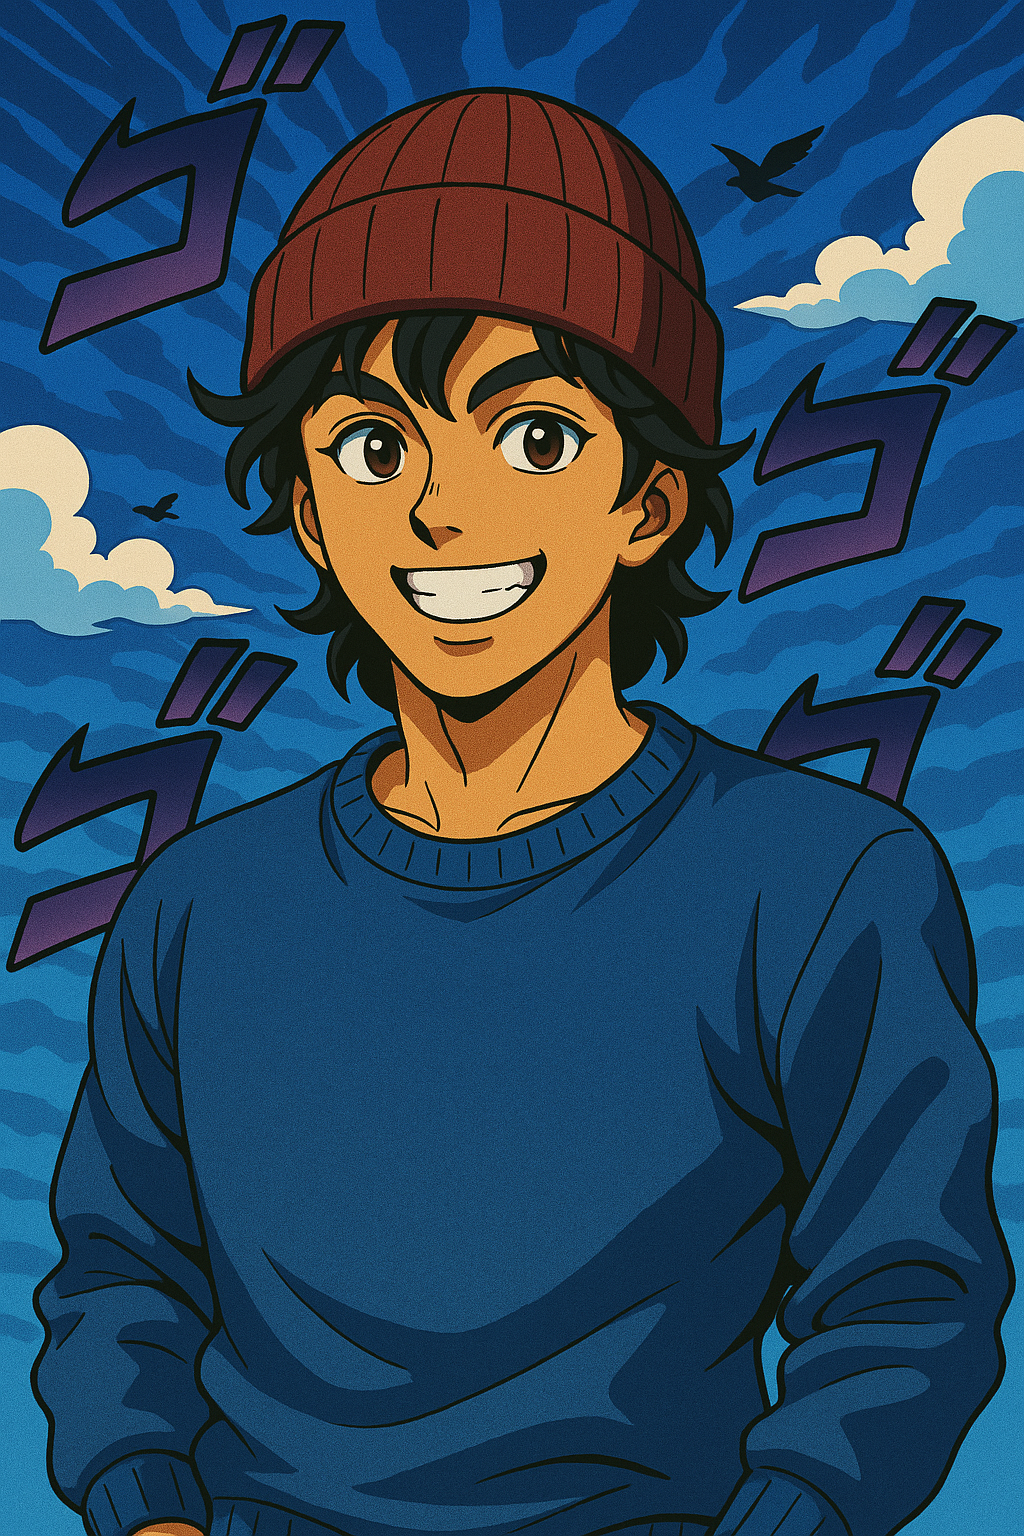
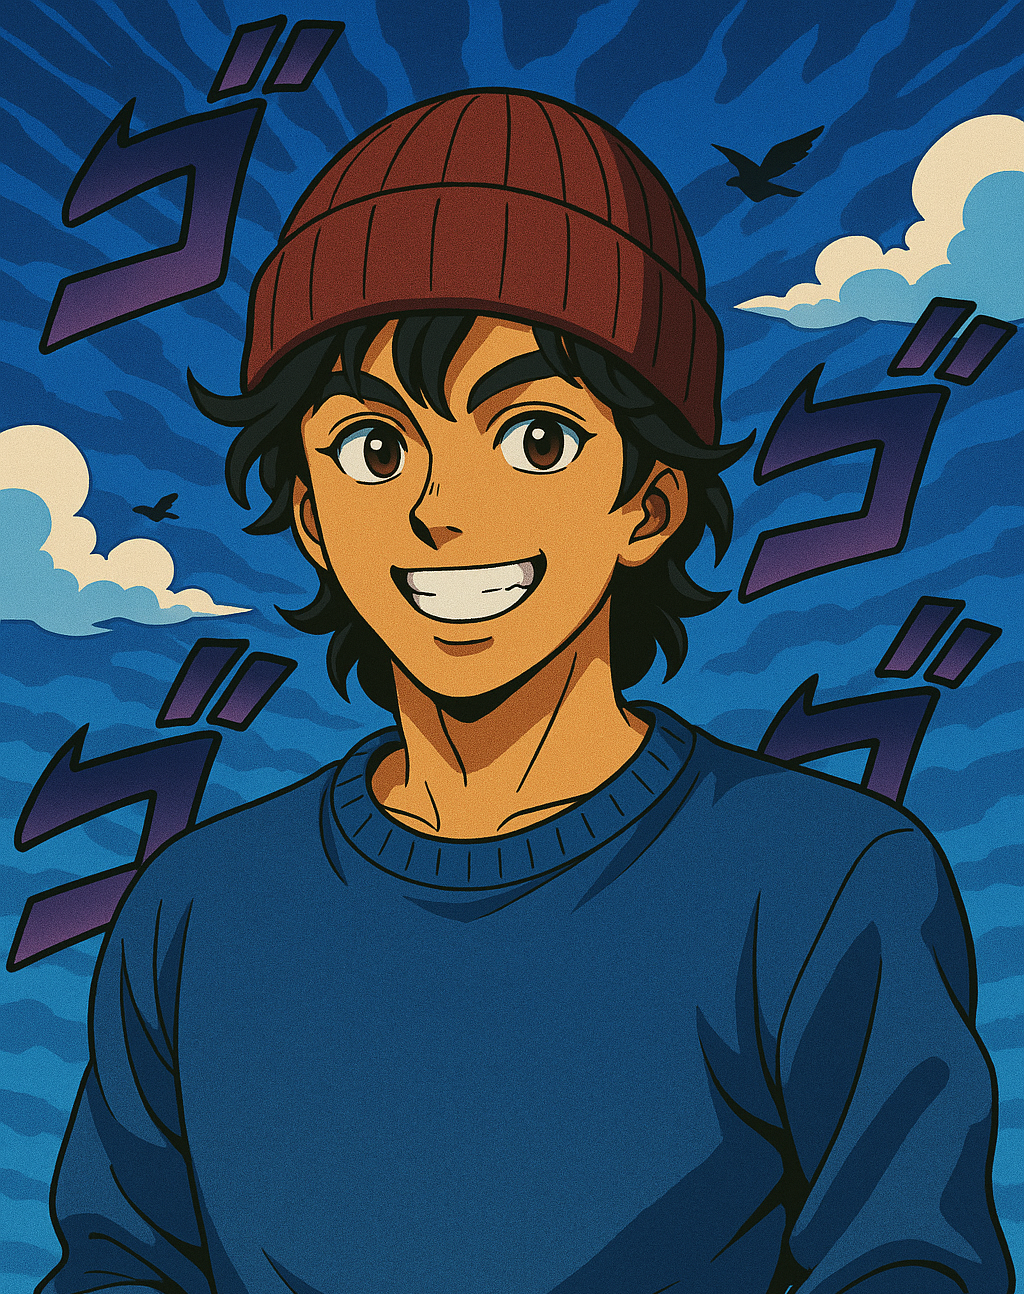
minor tweak on image ratio and border padding.

diff --git a/src/components/home/Hero.tsx b/src/components/home/Hero.tsx
@@ -10,11 +10,11 @@ const Hero: React.FC = () => {
   };
 
   return (
-    <section className="relative pt-16 pb-24">
+    <section className="relative py-12">
       {/* Background Gradient */}
       <div className="absolute inset-0 bg-gradient-to-br from-primary-50/50 to-white dark:from-primary-950/30 dark:to-dark -z-10"></div>
       
-      <div className="container-custom grid grid-cols-1 lg:grid-cols-2 gap-12 items-center pt-16 pb-8">
+      <div className="container-custom grid grid-cols-1 lg:grid-cols-2 gap-12 items-center">
         {/* Text Content */}
         <motion.div
           initial={{ opacity: 0, y: 20 }}
@@ -65,7 +65,7 @@ const Hero: React.FC = () => {
           className="order-1 lg:order-2"
         >
           <div className="relative">
-            <div className="w-[80%] h-[650px] mx-auto relative rounded-lg overflow-hidden shadow-2xl group cursor-pointer">
+            <div className="w-[90%] h-[500px] mx-auto relative rounded-lg overflow-hidden shadow-2xl group cursor-pointer">
               {/* Animated Image (Default) */}
               <img 
                 src="/images/jojo.png" 

diff --git a/src/components/home/Bio.tsx b/src/components/home/Bio.tsx
@@ -3,7 +3,7 @@ import { motion } from 'framer-motion';
 
 const Bio: React.FC = () => {
   return (
-    <section className="pt-8 pb-16 bg-white dark:bg-slate-900" id="about">
+    <section className="py-12 bg-white dark:bg-slate-900" id="about">
       <div className="container-custom">
         <motion.div
           initial={{ opacity: 0, y: 20 }}
@@ -11,7 +11,7 @@ const Bio: React.FC = () => {
           viewport={{ once: true, margin: "-100px" }}
           transition={{ duration: 0.7 }}
         >
-          <h2 className="text-center mb-16">About Me</h2>
+          <h2 className="text-center mb-12">About Me</h2>
           
           <div className="grid grid-cols-1 md:grid-cols-2 gap-12 items-center">
             {/* Bio Image */}

diff --git a/src/components/home/ChatInterface.tsx b/src/components/home/ChatInterface.tsx
@@ -50,11 +50,11 @@ const ChatInterface: React.FC = () => {
   };
 
   return (
-    <section className="relative pt-8 pb-16">
+    <section className="relative pt-20 pb-12">
       {/* Subtle Background */}
       <div className="absolute inset-0 bg-gradient-to-b from-slate-50/50 to-white dark:from-slate-900/50 dark:to-dark -z-10"></div>
       
-      <div className="container-custom pt-8 pb-4">
+      <div className="container-custom">
         <div className="max-w-3xl mx-auto">
           <AnimatePresence mode="wait">
             {!hasStarted ? (

diff --git a/src/components/home/FeaturedPhotos.tsx b/src/components/home/FeaturedPhotos.tsx
@@ -13,9 +13,9 @@ const FeaturedPhotos: React.FC = () => {
     .slice(0, 4);
   
   return (
-    <section className="py-16 bg-slate-50 dark:bg-slate-800" id="featured">
+    <section className="pt-12 pb-2 bg-slate-50 dark:bg-slate-800" id="featured">
       <div className="container-custom">
-        <div className="flex justify-between items-baseline mb-10">
+        <div className="flex justify-between items-baseline mb-8">
           <motion.h2
             initial={{ opacity: 0, x: -20 }}
             whileInView={{ opacity: 1, x: 0 }}

diff --git a/src/components/home/FeaturedPosts.tsx b/src/components/home/FeaturedPosts.tsx
@@ -11,9 +11,9 @@ const FeaturedPosts: React.FC = () => {
     .slice(0, 3);
   
   return (
-    <section className="py-24 bg-white dark:bg-slate-900">
+    <section className="py-12 bg-white dark:bg-slate-900">
       <div className="container-custom">
-        <div className="flex justify-between items-baseline mb-16">
+        <div className="flex justify-between items-baseline mb-12">
           <motion.h2
             initial={{ opacity: 0, x: -20 }}
             whileInView={{ opacity: 1, x: 0 }}
